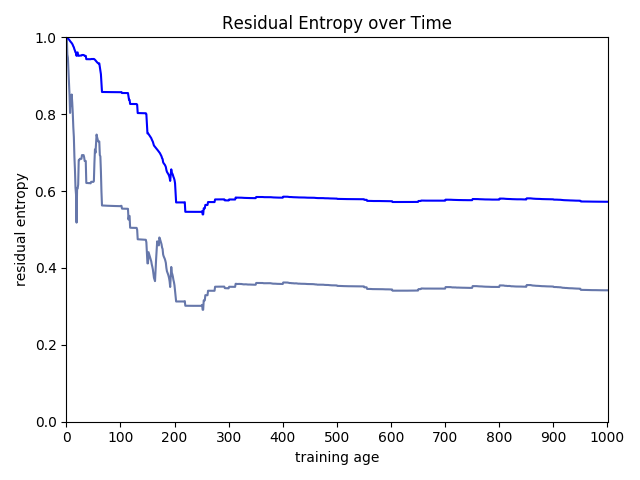
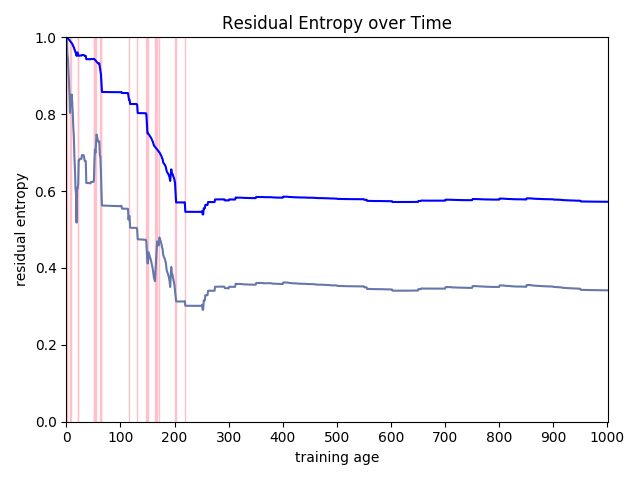
added vertical lines to graphs
vertical lines indicate whenever the agent encounters a new state

Changed region(s): [[0.0938, 0.0938, 0.1562, 0.875], [0.2188, 0.0625, 0.25, 0.875]]

diff --git a/docs/experiments/6/chase_data.py b/docs/experiments/6/chase_data.py
@@ -14,13 +14,22 @@ for r in range(1, runs+1):
             time.append(i+1)
             data[0].append(temp[i][0])
             data[1].append(temp[i][1])
-        
-    # print(len(data[1]))
-    # print(data[1])
-        
+
+    num_states = []
+    with open(str(r) + "states.txt") as f:
+        lines = f.readlines()
+        for line in lines:
+            line = line.split()
+            # print(line)
+            if line[0] == "states:":
+                num_states.append(int(line[1]))
+    for xc in range(1, 1000):
+        if num_states[xc] != num_states[xc - 1]:
+            pl.axvline(x=xc, color='pink', linestyle='-', linewidth=1)
+
     plot1 = pl.plot(time, data[0], c='#6677AA')
     plot2 = pl.plot(time, data[1], c='#0000FF')
-    
+
     pl.title('Residual Entropy over Time')
 
     pl.xlabel('training age')
@@ -30,8 +39,6 @@ for r in range(1, runs+1):
 
     pl.xlim(0, 1001)
     pl.ylim(0.0, 1.0)
-
-    #pl.xticks(np.arange(0, 10000+1, 100))
 
     pl.tight_layout()
     pl.savefig(str(r) + 'plot-both')
